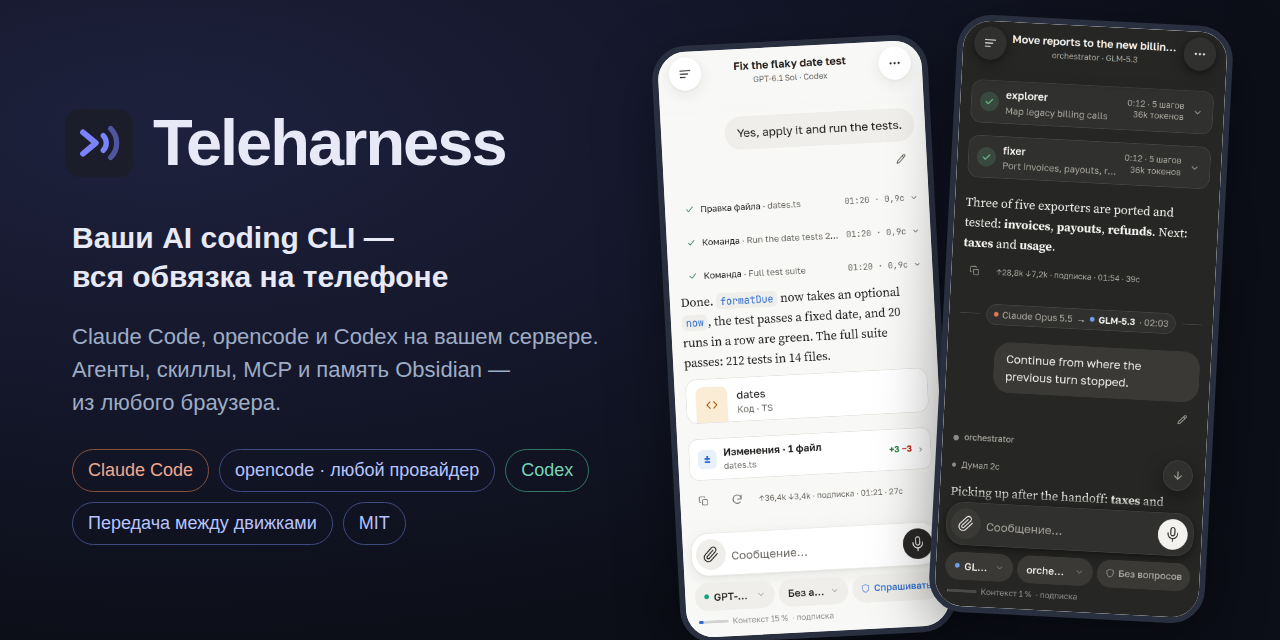
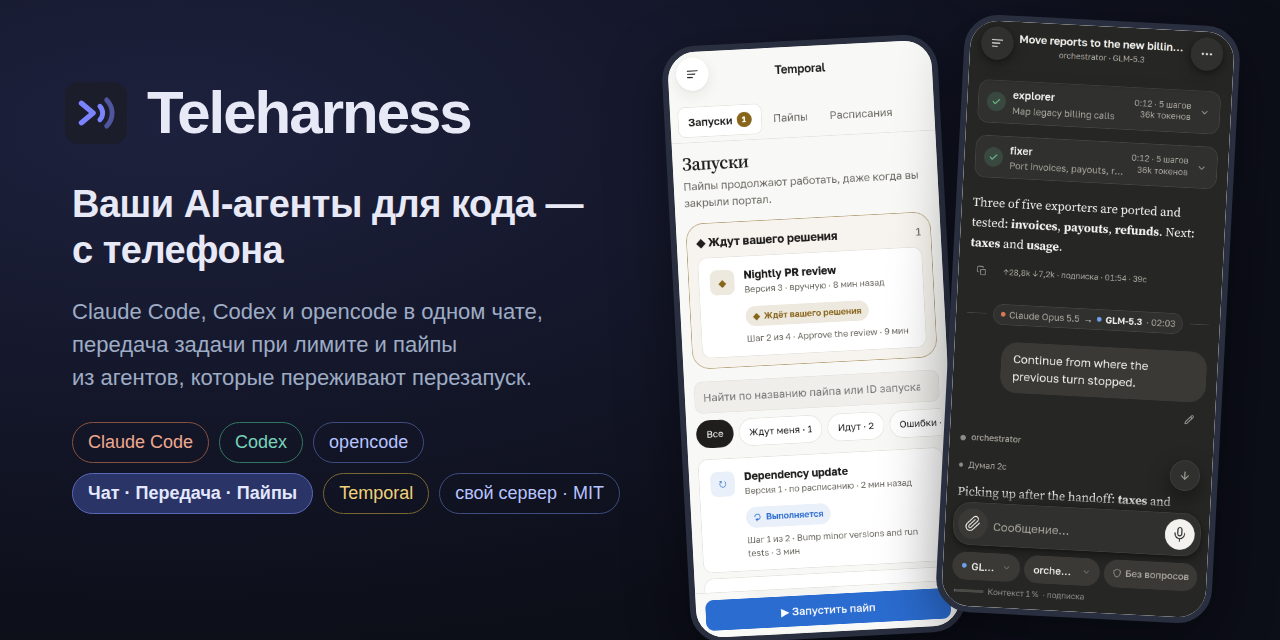
README: position Teleharness as a control room for AI coding agents — Chat, Relay, Pipelines on Temporal
New headline and What it does block in English and Russian, why Temporal, new social
preview, package.json description and keywords; a test keeps README links and anchors valid.

diff --git a/tests/readme-links.test.js b/tests/readme-links.test.js
@@ -1,0 +1,48 @@
+// README.md and README.ru.md are the project's landing page: every local image and link must point to an existing
+// file, and every in-page anchor (#...) must match a heading, so a rewrite of the README cannot ship broken media or
+// a dead table of contents. package.json keeps the positioning keywords the GitHub topics are built from.
+import { test } from "node:test";
+import assert from "node:assert/strict";
+import { readFileSync, existsSync } from "node:fs";
+import path from "node:path";
+import { fileURLToPath } from "node:url";
+
+const ROOT = path.join(path.dirname(fileURLToPath(import.meta.url)), "..");
+const FILES = ["README.md", "README.ru.md"];
+
+// GitHub heading slug: lowercase, drop punctuation except - and _, spaces to -.
+const slug = (h) => h.trim().toLowerCase().replace(/<[^>]+>/g, "").replace(/[^\p{L}\p{N}\s_-]/gu, "").replace(/\s/g, "-");
+
+function targets(md) {
+  const out = [];
+  for (const m of md.matchAll(/\]\(([^)\s]+)(?:\s+"[^"]*")?\)/g)) out.push(m[1]);
+  for (const m of md.matchAll(/\b(?:src|href)="([^"]+)"/g)) out.push(m[1]);
+  return out.filter((t) => !/^(https?:|mailto:)/.test(t));
+}
+
+for (const rel of FILES) {
+  test(`${rel}: local links, images and anchors resolve`, () => {
+    const md = readFileSync(path.join(ROOT, rel), "utf8");
+    const anchors = new Set([...md.matchAll(/^#{1,6}\s+(.+)$/gm)].map((m) => slug(m[1])));
+    const bad = [];
+    for (const t of targets(md)) {
+      const [file, hash] = t.split("#");
+      if (file) {
+        if (!existsSync(path.join(ROOT, decodeURIComponent(file)))) bad.push(`missing file: ${t}`);
+      } else if (hash && !anchors.has(decodeURIComponent(hash))) bad.push(`missing anchor: ${t}`);
+    }
+    assert.deepEqual(bad, []);
+  });
+}
+
+test("README headline and package.json name all three pillars and engines", () => {
+  for (const rel of FILES) {
+    const head = readFileSync(path.join(ROOT, rel), "utf8").slice(0, 2500);
+    for (const word of ["Claude Code", "Codex", "opencode", "Temporal"]) assert.ok(head.includes(word), `${rel} header lacks ${word}`);
+  }
+  const pkg = JSON.parse(readFileSync(path.join(ROOT, "package.json"), "utf8"));
+  for (const word of ["Claude Code", "Codex", "opencode", "Temporal"]) assert.ok(pkg.description.includes(word), `description lacks ${word}`);
+  for (const kw of ["claude-code", "codex", "opencode", "temporal", "agent-orchestration", "human-in-the-loop"]) {
+    assert.ok(pkg.keywords.includes(kw), `keywords lack ${kw}`);
+  }
+});

diff --git a/README.md b/README.md
@@ -1,16 +1,18 @@
 <div align="center">
 
-<img src="docs/screenshots/social-preview.png" alt="Teleharness: one chat for multiple AI coding CLIs" width="100%">
+<img src="docs/screenshots/social-preview.png" alt="Teleharness: your AI coding agents — Claude Code, Codex and opencode — from your phone" width="100%">
 
-## One chat for multiple AI coding CLIs
+## Your AI coding agents, from your phone
 
-**Switch between Claude Code, opencode and Codex in the same conversation — without starting over.**
+**Chat with Claude Code, Codex and opencode in one place, hand a task over when a usage limit hits,
+and chain agents into pipelines that survive restarts.**
 
-Teleharness is an open-source, self-hosted web UI for AI coding agents. It runs the real CLIs on your machine,
-with their native agents, skills, MCP servers, hooks and project context, and lets you hand a chat from one CLI
-to another when a subscription hits its usage limit.
+Teleharness is an open-source, self-hosted control room for AI coding CLIs. It runs the real CLIs on your machine —
+with their agents, skills, MCP servers, hooks and project context — and adds what a terminal can't: a mobile-first
+chat, approvals from anywhere, cross-CLI handoff and durable multi-agent pipelines on [Temporal](https://temporal.io).
+All of it runs on the CLI subscriptions you already pay for, not a metered API.
 
-**Multi-CLI chat** · **cross-CLI context handoff** · **subscription usage** · **mobile-first UI** · **persistent memory** · **self-hosted**
+**Chat** · **Relay** · **Pipelines** · **human in the loop** · **on your subscriptions** · **self-hosted**
 
 [![Release](https://img.shields.io/github/v/release/al3x4kov/teleharness?style=flat-square&color=6366f1)](https://github.com/al3x4kov/teleharness/releases/latest)
 [![CI](https://img.shields.io/github/actions/workflow/status/al3x4kov/teleharness/ci.yml?branch=main&style=flat-square&label=tests)](https://github.com/al3x4kov/teleharness/actions/workflows/ci.yml)
@@ -18,7 +20,9 @@ to another when a subscription hits its usage limit.
 [![Node](https://img.shields.io/badge/node-%E2%89%A522-339933?style=flat-square&logo=node.js&logoColor=white)](https://nodejs.org)
 [![Platforms](https://img.shields.io/badge/platforms-macOS%20%7C%20Linux%20%7C%20Windows-0ea5e9?style=flat-square)](#platform-support)
 
+[What it does](#what-it-does) •
 [Switch CLIs](#switch-cli-mid-conversation) •
+[Pipelines](#pipelines-that-survive-restarts-temporal) •
 [Try the demo](#try-it-in-30-seconds) •
 [Tour](#a-quick-tour) •
 [Features](#features) •
@@ -33,6 +37,21 @@ to another when a subscription hits its usage limit.
 </div>
 
 ---
+
+## What it does
+
+<table>
+<tr>
+<td width="33%"><img src="docs/screenshots/phone-light-codex.png" alt="A Codex chat on a phone: file edits, passing tests, Ask mode"></td>
+<td width="33%"><img src="docs/screenshots/phone-light-relay.png" alt="Handoff mark in one feed: Claude Opus → GLM-5.3"></td>
+<td width="33%"><img src="docs/screenshots/phone-light-temporal-runs.png" alt="Temporal runs with a block waiting for your decision"></td>
+</tr>
+<tr>
+<td valign="top"><b>Chat</b><br>Claude Code, Codex and opencode side by side in a phone-first UI: live steps, subagent cards, diffs and git, files, voice, push. Approve edits and commands from anywhere.</td>
+<td valign="top"><b>Relay</b><br>A subscription runs out mid-task? The same chat continues on another CLI or model — same folder, one feed, the missed turns carried over. Manually or automatically.</td>
+<td valign="top"><b>Pipelines</b><br>Chain agents into multi-step runs on Temporal: Claude reviews, you approve from your phone, Codex writes — with timers, conditions, schedules and artifacts. Runs survive restarts.</td>
+</tr>
+</table>
 
 ## Switch CLI mid-conversation
 
@@ -62,6 +81,10 @@ Turn a routine into a pipe: Claude reviews the diff, you approve it from your ph
 the file lands in the run folder. Each step runs on your CLI subscription as a turn of your own chat, so you can open
 its conversation later. Runs keep going while the portal is closed or the server restarts.
 
+Why Temporal: every step is a durable activity, model calls are recorded exactly once in a ledger, a *Human decision*
+step can wait for days without holding a process, and concurrency slots per engine and per user keep your
+subscriptions within their limits.
+
 <p align="center">
   <img src="docs/screenshots/temporal.gif" alt="A waiting run: Claude's review next to Approve; after approval Codex writes release notes and notes.md opens" width="300">
 </p>
@@ -82,13 +105,16 @@ macOS — see [docs/temporal.md](docs/temporal.md). Try it without any setup in 
 Chat apps give you a model. Agent CLIs give you much more — tools, file access, subagents, skills,
 MCP servers, hooks, project memory — but they live in a terminal on your desk.
 
-Teleharness puts a mobile-first web UI in front of those CLIs, so the full harness is one tap away:
+Teleharness puts a mobile-first web UI in front of those CLIs, so the full harness is one tap away — and lets you
+chain them into pipelines:
 
 - **CLIs, not models.** Each chat runs through `opencode serve`, the `claude` CLI or the `codex` CLI. Whatever you
   have configured there — agents, skills, plugins, MCP — works from your phone.
 - **Many providers through one portal.** opencode talks to Z.ai GLM, OpenAI, Google Gemini, Anthropic,
   OpenRouter, local models and more; Claude Code brings your Claude subscription, Codex your ChatGPT
   subscription. Pick the engine and model per chat.
+- **Agents that work while you're away.** Pipelines on Temporal run multi-step jobs across Claude and Codex, stop for
+  your approval and resume after restarts — on your subscriptions, never a paid API.
 - **A task survives a usage limit.** When a subscription runs out mid-task, hand the chat over to another
   engine or model: same folder, one feed, and the new engine receives the turns it missed.
 - **Memory that outlives a chat.** An Obsidian vault works as an active cache: agents get a snapshot
@@ -357,7 +383,7 @@ See [CONTRIBUTING.md](CONTRIBUTING.md). Changes are listed in [CHANGELOG.md](CHA
 
 ## Built with
 
-[opencode](https://opencode.ai) · [Claude Code](https://docs.anthropic.com/en/docs/claude-code) · [Codex CLI](https://github.com/openai/codex) ·
+[opencode](https://opencode.ai) · [Claude Code](https://docs.anthropic.com/en/docs/claude-code) · [Codex CLI](https://github.com/openai/codex) · [Temporal](https://temporal.io) ·
 [oh-my-opencode-slim](https://www.npmjs.com/package/oh-my-opencode-slim) · [Preact](https://preactjs.com) ·
 [esbuild](https://esbuild.github.io) · [marked](https://marked.js.org) · [DOMPurify](https://github.com/cure53/DOMPurify) ·
 [highlight.js](https://highlightjs.org) · [Piper](https://github.com/rhasspy/piper) · [sherpa-onnx](https://github.com/k2-fsa/sherpa-onnx)

diff --git a/CHANGELOG.md b/CHANGELOG.md
@@ -6,6 +6,14 @@ and is shown in Settings → About.
 
 ## [Unreleased]
 
+### Changed
+- **New positioning: a self-hosted control room for AI coding agents.** README (English and Russian) opens with
+  *Your AI coding agents, from your phone* and three pillars — Chat, Relay and Pipelines on Temporal — with a
+  *What it does* block, a note on why pipelines run on Temporal, and Temporal in *Built with*. The social preview,
+  the `package.json` description and keywords (`codex`, `temporal`, `agent-orchestration`, `agentic-workflow`,
+  `human-in-the-loop`) follow the same wording.
+- A test checks that every local image, link and anchor in both READMEs resolves.
+
 ## [2.0.5] — 2026-11-20
 
 ### Fixed
